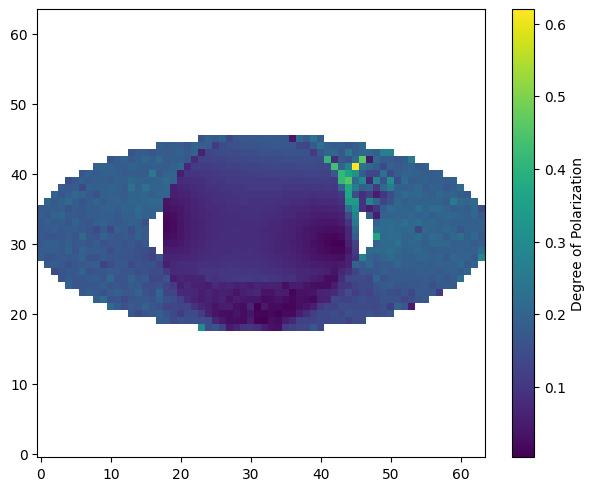
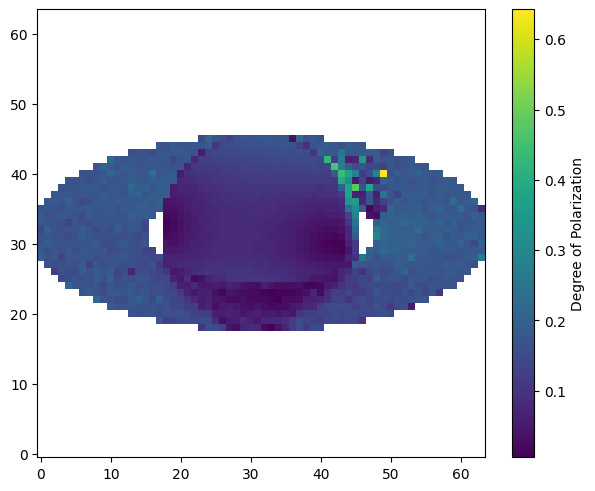
ringed model updated

diff --git a/tools/polaris_tools_modules/model.py b/tools/polaris_tools_modules/model.py
@@ -365,8 +365,8 @@ class Ringed(Model):
 
         if self.ring_inner_radius < pos < self.ring_outer_radius and np.abs(theta - 90.0) < 0.5 * self.ring_opening_angle:
             # vertical height of the ring at outer radius
-            length = self.ring_outer_radius * np.tan(np.deg2rad(self.ring_opening_angle))
-            c_ext = 7.13263e-13  # precalculated cross section using q = -3, s_min = 1e-7 m, s_max = 1e-5 m, n = 1.69 + 0.03 (550 nm)
+            length = 2.0 * self.ring_outer_radius * np.tan(0.5 * np.deg2rad(self.ring_opening_angle))
+            c_ext = 7.13263e-13  # precalculated cross section using q = -3, s_min = 1e-7 m, s_max = 1e-5 m (550 nm)
             density[1] = self.parameter['optical_depth_ring'] / (c_ext * length)
 
         return density
